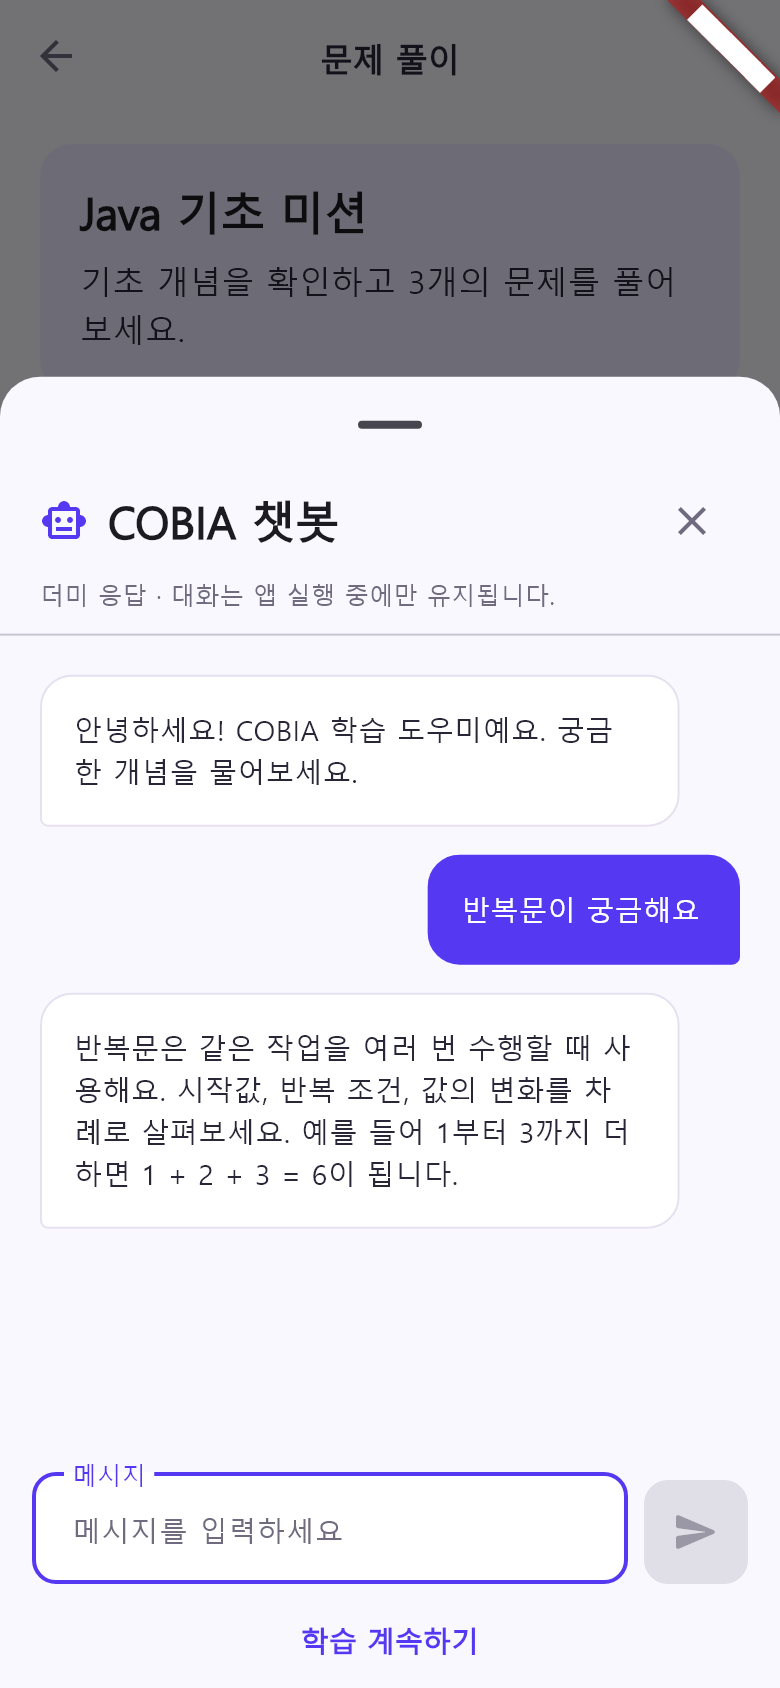
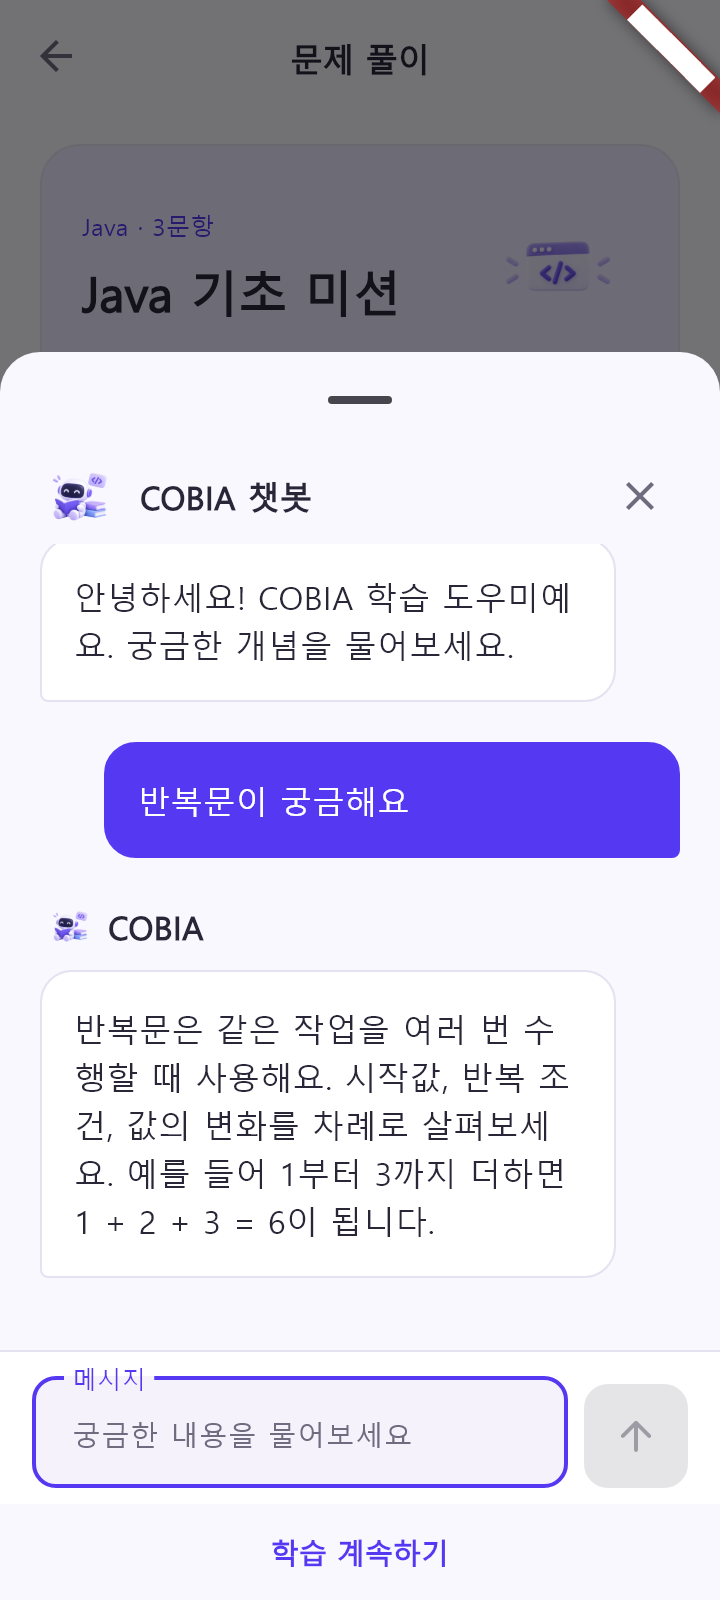
docs: 전체 학습 화면 디자인 및 안드로이드 검증 기록

diff --git a/docs/learning-ui-revision.md b/docs/learning-ui-revision.md
@@ -21,15 +21,24 @@
 - Flutter 3.47.5 / Dart 3.13.4 사용.
 - `flutter analyze --no-pub`: 통과.
 - `flutter build apk --debug --no-pub`: 통과.
-- 전체 테스트: 변경 전 75개 통과 / 7개 실패 → 변경 후 78개 통과 / 같은 7개 실패.
+- 전체 테스트: 변경 전 75개 통과 / 7개 실패 → 변경 후 81개 통과 / 같은 7개 실패.
 - 기존 실패: `grammar_chapters_test.dart`의 6개 이동 검사와 `grammar_quiz_test.dart`의 결과 후 챕터 수 검사. 기존 develop의 전체 챕터 표시 변경과 관련되어 이번 디자인 범위에서 수정하지 않았다.
 - 추가 레이아웃 검사: 360×800, 320×640(글자 200%), 800×600에서 11개 경로, 문법 하단 버튼 위치와 챗봇 키보드 표시 확인.
 - 기존 기능 테스트의 표시 브랜드를 갱신하고 스크롤 후 레이아웃 완료를 기다리도록 보완했다. 기존 검증 조건은 유지했다.
 
 ## 검토 이미지
 
-### 카드 장식 보완
+### 전체 화면 구성
 
-학습·챕터·문제 진입 카드에 보라색 포인트 선, 옅은 그라데이션, 윤곽선과 그림자를 추가했다. 이동 화살표는 채워진 배지로, 실무 챕터 번호는 그라데이션 번호 배지로 강조했다. 실무 주제 제목과 아이콘을 확대하고 문법·실무 상세 내용 카드에도 같은 표면을 적용했다. 카드 클릭 콜백과 데이터는 유지하며 전체 테스트 결과도 78개 통과 / 기존 7개 실패로 동일하다.
+이전 인증·홈 PR(#7)의 `home_learning`, `login_code`, `terms_robot`, `sign_up_complete` 일러스트를 재사용했다. 학습 소개와 결과의 대표 영역만 강조하고 일반 학습 카드는 기준에 맞춰 흰색·16px 모서리·1px 테두리·약한 그림자로 정리했다. 반복 그라데이션과 카드 상단 장식 선은 제거했다.
 
-`docs/screenshots/learning-ui-revision/`에 문법 홈·개념·예제, 실무 홈·챕터·상세, 문제 홈·입력·결과, 챗봇 페이지·패널을 저장했다. 390×844 위젯 렌더링 이미지이며 실제 Android 기기 캡처는 아니다. 검토 시 한글 글꼴을 주입했으므로 실제 기기의 기본 글꼴과 줄바꿈에 차이가 있을 수 있다.
+- 문법: 홈, 챕터 목록, 개념, 예제, 퀴즈, 결과 전체에 적용. 단계 패널, 구분된 본문 카드 헤더, 코드 프레임, 결과 일러스트를 사용한다.
+- 실무: 주제 목록, 챕터 목록, 상세 전체에 적용. 대표 소개, 주제 아이콘, 번호 배지와 본문 섹션을 통일했다.
+- 문제: 목록, 입력, 결과 전체에 적용. 문제 유형별 헤더와 코드 영역, 결과 요약과 더미 채점 안내를 분리했다. 정답의 얇은 초록 테두리는 유지한다.
+- 챗봇: 첫 화면의 로봇 일러스트·정적 예시 질문, AI 아바타·말풍선, 입력창·전송 버튼을 전체 페이지와 시트에서 공유한다. 예시 질문은 새 기능 버튼이 아닌 안내 문구다. 대화 전에는 소개 상단을 보여주고 메시지 전송 후에는 기존처럼 마지막 답변으로 스크롤한다. 가로 키보드로 높이가 부족하면 학습 복귀 버튼을 헤더에 배치한다.
+
+추가 검사: 챗봇 시트의 360×800, 320×640(200%), 640×320 가로 키보드와 문법·문제 결과 화면을 검사했다. 문법/실무/문제 데이터, 라우터, 채점 및 챗봇 ViewModel에는 변경이 없다.
+
+`docs/screenshots/learning-ui-revision/`에 모든 화면과 챗봇 첫 화면, 문법 퀴즈·결과, 320×640(200%) 이미지를 저장했다. 기본 이미지는 360×800 위젯 렌더링이며 실제 Android 캡처는 아니다. 검토 시 한글 글꼴을 주입했으므로 실제 기기와 줄바꿈에 차이가 있을 수 있다.
+
+`chat-android.png`는 최신 APK를 Pixel 9 Pro 에뮬레이터에 설치하고 로그인 후 챗봇 탭에서 직접 캡처한 실제 Android 화면이다.
